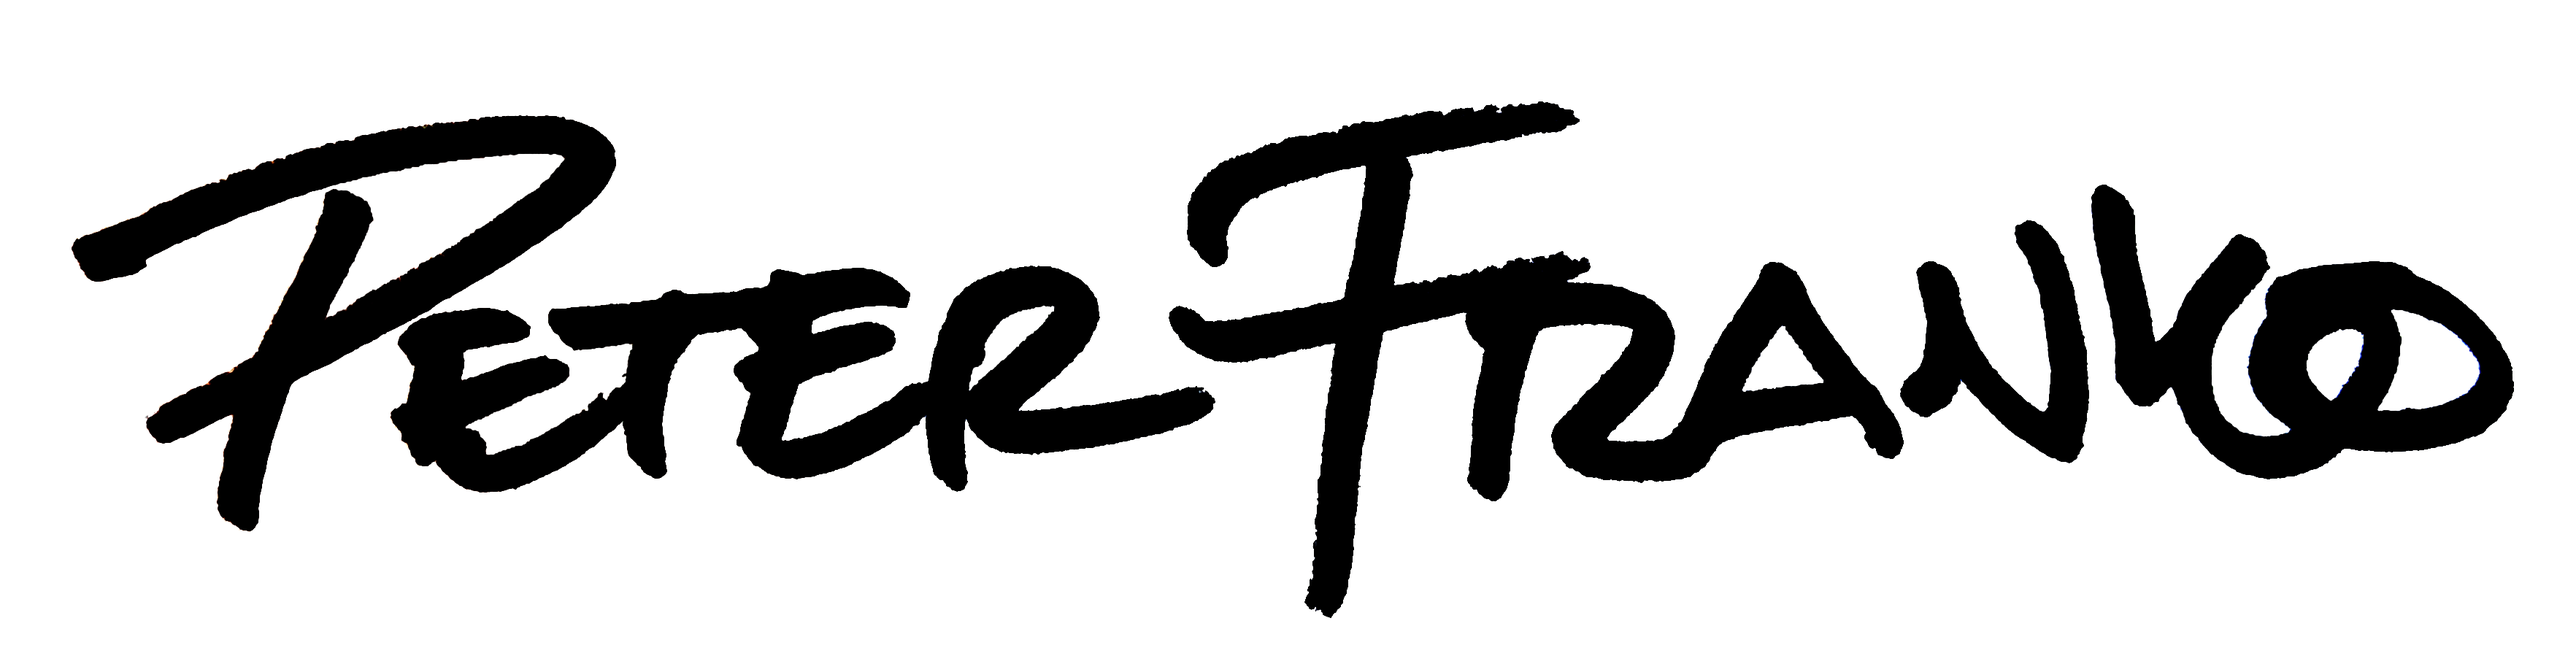
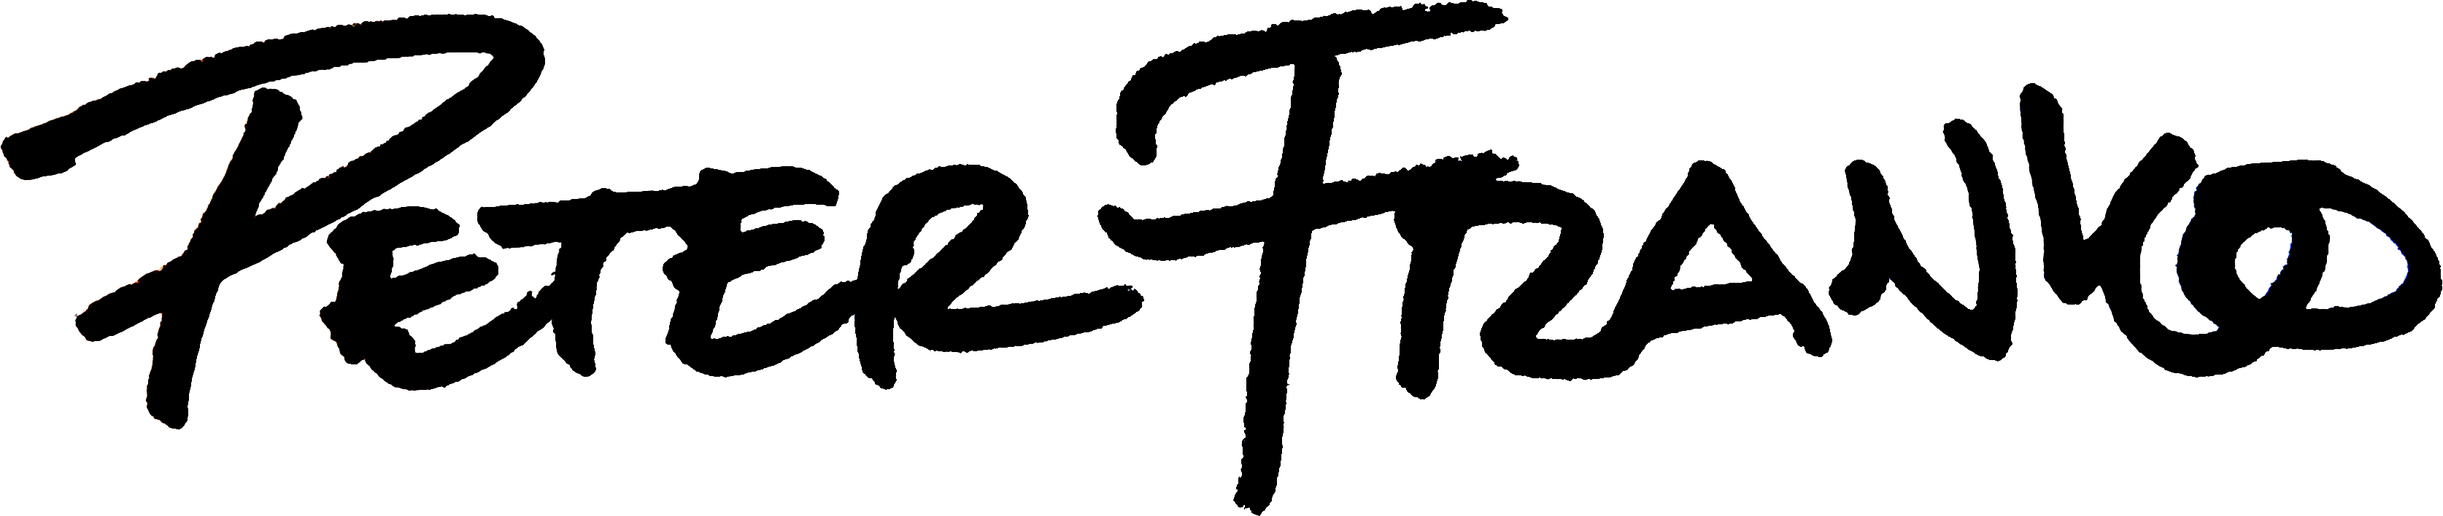
+

Changed region(s): [[0.0, 0.0, 1.0, 0.839], [0.497, 0.9011, 0.5281, 0.9944], [0.5902, 0.5593, 0.6213, 0.5904]]

diff --git a/style.css b/style.css
@@ -14,7 +14,7 @@
    uses subgrid so children can span `layout-full` (viewport-wide) or `layout-prose`
    (center column). Fallback: classic max-width + full-bleed breakout for aurora.
 
-   Typography: fluid type ramps via clamp(); mono for UI chrome, serif for display.
+   Typography: fluid type ramps via clamp(); Instrument Sans for text and labels.
 
    Grid templates: `--grid-columns-*` define repeatable column patterns for lists.
    ═══════════════════════════════════════════════════════════════════════════ */
@@ -38,8 +38,8 @@
     --color-aurora-mist: #a8c4c0;
 
     /* ─── Typography ─── */
-    --font-serif: 'Cormorant Garamond', Georgia, 'Times New Roman', serif;
-    --font-mono: 'JetBrains Mono', ui-monospace, 'SF Mono', monospace;
+    --font-sans: 'Instrument Sans', ui-sans-serif, system-ui, -apple-system, BlinkMacSystemFont, 'Segoe UI', sans-serif;
+    --font-mono: var(--font-sans);
     --font-weight-light: 400;
     --font-weight-regular: 500;
     --font-weight-medium: 600;
@@ -66,10 +66,10 @@
     --tracking-eyebrow: 0.18em;
     --tracking-wide: 0.15em;
     --tracking-caps: 0.08em;
-    --tracking-tight: -0.028em;
-    --tracking-display: -0.028em;
-    --tracking-lede: -0.015em;
-    --tracking-timeline: -0.01em;
+    --tracking-tight: 0;
+    --tracking-display: 0;
+    --tracking-lede: 0;
+    --tracking-timeline: 0;
 
     /* ─── Space scale ─── */
     --space-1: 0.2rem;
@@ -199,7 +199,7 @@
     position: relative;
     background: var(--color-surface-base);
     color: var(--color-text-primary);
-    font-family: var(--font-serif);
+    font-family: var(--font-sans);
     font-weight: var(--font-weight-light);
     font-size: var(--text-body);
     line-height: var(--leading-relaxed);
@@ -899,7 +899,7 @@
   }
 
   .project-title {
-    font-family: var(--font-serif);
+    font-family: var(--font-sans);
     font-weight: var(--font-weight-regular);
     font-size: var(--text-project);
     line-height: var(--leading-none);
@@ -954,7 +954,7 @@
   }
 
   .project-arrow {
-    font-family: var(--font-serif);
+    font-family: var(--font-sans);
     font-size: 1.25rem;
     color: var(--color-text-muted);
     transform: translate(-0.35em, -0.3em);
@@ -1044,7 +1044,7 @@
   }
 
   .tl-title {
-    font-family: var(--font-serif);
+    font-family: var(--font-sans);
     font-size: var(--text-timeline);
     font-weight: var(--font-weight-regular);
     line-height: var(--leading-snug);
@@ -1069,9 +1069,8 @@
   .contact-line {
     position: relative;
     display: inline-block;
-    font-family: var(--font-serif);
-    font-style: italic;
-    font-weight: var(--font-weight-light);
+    font-family: var(--font-sans);
+    font-weight: var(--font-weight-regular);
     font-size: var(--text-lede);
     letter-spacing: var(--tracking-lede);
     line-height: var(--leading-tight);

diff --git a/index.html b/index.html
@@ -22,7 +22,7 @@
   <meta name="twitter:image" content="/og-image.svg" />
   <link rel="preconnect" href="https://fonts.googleapis.com" />
   <link rel="preconnect" href="https://fonts.gstatic.com" crossorigin />
-  <link href="https://fonts.googleapis.com/css2?family=Cormorant+Garamond:ital,wght@0,400;0,500;1,400&family=JetBrains+Mono:wght@400;500&display=swap" rel="stylesheet" />
+  <link href="https://fonts.googleapis.com/css2?family=Instrument+Sans:wdth,wght@75..100,400..700&display=swap" rel="stylesheet" />
   <link rel="stylesheet" href="style.css" />
 </head>
 <body>
@@ -141,23 +141,22 @@
             src="assets/peterfranko-script-light.png"
             alt=""
             aria-hidden="true"
-            width="3529"
-            height="910"
+            width="3348"
+            height="708"
           />
           <img
             class="hero-name__script hero-name__script--dark"
             src="assets/peterfranko-script-dark.png"
             alt=""
             aria-hidden="true"
-            width="3529"
-            height="910"
+            width="3348"
+            height="708"
           />
         </h1>
         <p class="eyebrow reveal" style="--d:1">Product Designer · Brooklyn</p>
         <p class="hero-lede reveal" style="--d:2">
-          I design consumer products at <strong>Meta</strong>, focused on experiences
-          where trust, safety, and interface craft matter at scale. For the past eight
-          years, my work has sat between product judgment, integrity, and social systems.
+          I design pro-social user experiences where trust, safety, and craft matter
+          at a massive scale.
         </p>
       </header>
 
@@ -180,7 +179,7 @@
           <div class="tl-row reveal" style="--d:5">
             <dt>2021</dt>
             <dd>
-              <span class="tl-title">Meta Civic</span>
+              <span class="tl-title">Meta Social Impact</span>
               <span class="tl-sub">Civic connections, civic integrity, and public conversation</span>
             </dd>
           </div>
